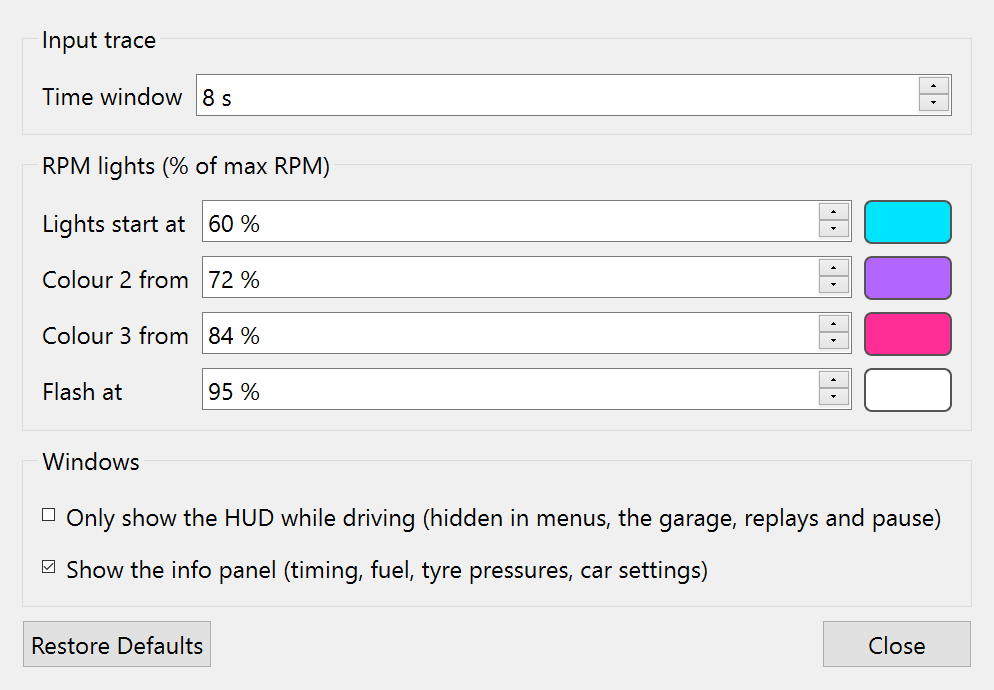
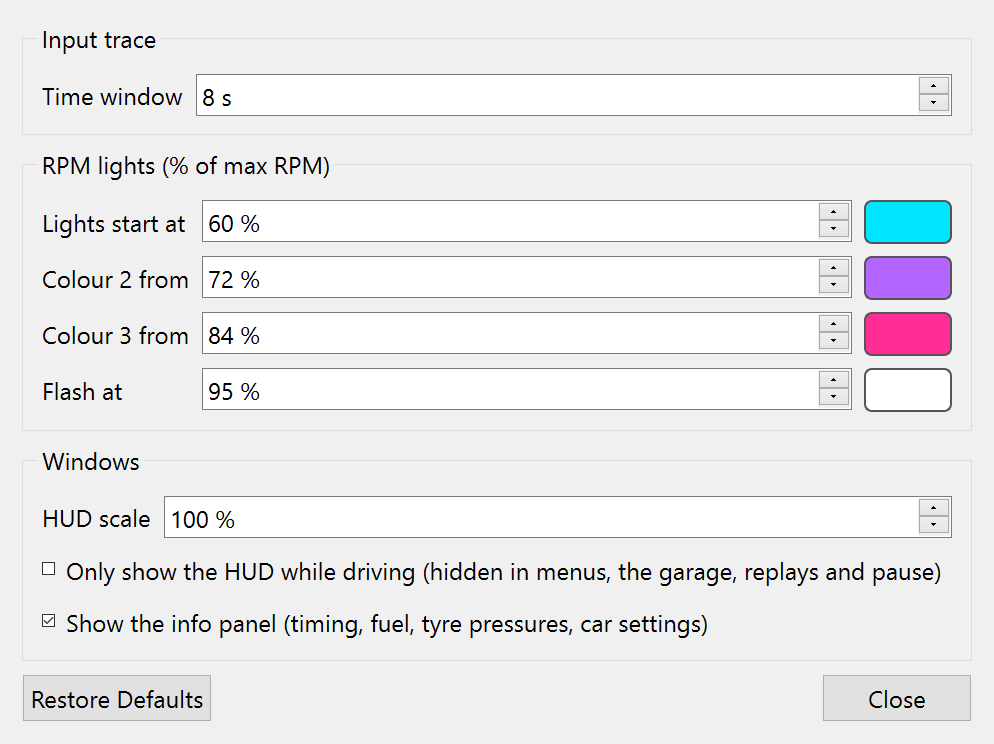
Add a HUD scale setting (50-250 %)
Settings > Windows > HUD scale resizes the HUD window and scales the painter, so the vector drawing stays sharp; layout constants stay in 100 % units. The pin/gear buttons follow on resize, and the scale is saved.

diff --git a/ace_overlay/config.py b/ace_overlay/config.py
@@ -25,6 +25,7 @@ class Config:
     flash_color: str = "#4d7cff"
     show_panel: bool = True  # the separate info panel (timing, fuel, pressures, car settings)
     hide_until_driving: bool = False  # HUD only appears once the car is out of the garage
+    hud_scale: int = 100  # % size of the HUD
 
     @classmethod
     def load(cls, settings):
@@ -98,7 +99,14 @@ class SettingsDialog(QDialog):
         self.hide_until_driving = QCheckBox("Only show the HUD while driving (hidden in menus, the garage, replays and pause)")
         self.show_panel = QCheckBox("Show the info panel (timing, fuel, tyre pressures, car settings)")
         panel_box = QGroupBox("Windows")
+        self.hud_scale = QSpinBox(minimum=50, maximum=250, singleStep=10, suffix=" %")
+        self.hud_scale.setToolTip("Size of the HUD. It's drawn as shapes and text, so it stays sharp at any size.")
+        scale_row = QWidget()
+        scale_layout = QFormLayout(scale_row)
+        scale_layout.setContentsMargins(0, 0, 0, 0)
+        scale_layout.addRow("HUD scale", self.hud_scale)
         windows_layout = QVBoxLayout(panel_box)
+        windows_layout.addWidget(scale_row)
         windows_layout.addWidget(self.hide_until_driving)
         windows_layout.addWidget(self.show_panel)
 
@@ -119,6 +127,7 @@ class SettingsDialog(QDialog):
             button.changed.connect(self.apply)
         self.show_panel.toggled.connect(self.apply)
         self.hide_until_driving.toggled.connect(self.apply)
+        self.hud_scale.valueChanged.connect(self.apply)
 
     @staticmethod
     def row(spin, color_button):
@@ -139,6 +148,7 @@ class SettingsDialog(QDialog):
             getattr(self, name).set_color(getattr(c, name))
         self.show_panel.setChecked(c.show_panel)
         self.hide_until_driving.setChecked(c.hide_until_driving)
+        self.hud_scale.setValue(c.hud_scale)
         self.rpm_flash.setMinimum(c.rpm_start + 1)
         self._loading = False
 
@@ -155,6 +165,7 @@ class SettingsDialog(QDialog):
             setattr(c, name, getattr(self, name).color)
         c.show_panel = self.show_panel.isChecked()
         c.hide_until_driving = self.hide_until_driving.isChecked()
+        c.hud_scale = self.hud_scale.value()
         c.save(self.overlay.settings)
         self.overlay.config_changed.emit()
 

diff --git a/ace_overlay/overlay.py b/ace_overlay/overlay.py
@@ -238,6 +238,10 @@ class OverlayWindow(QWidget):
         for button in self.side_buttons:
             button.follow()
 
+    def resizeEvent(self, _event):  # e.g. the HUD scale changed: keep the buttons beside the window
+        for button in self.side_buttons:
+            button.follow()
+
     def mousePressEvent(self, event):
         if not self.locked and event.button() == Qt.LeftButton:
             self.windowHandle().startSystemMove()
@@ -263,6 +267,8 @@ class InputsOverlay(OverlayWindow):
         super().__init__(settings, "pos", QPoint(60, 60), W, H)
         self.source = source
         self.config = Config.load(settings)
+        self.apply_scale()
+        self.config_changed.connect(self.apply_scale)
         self.config_changed.connect(self.update)
         self.settings_dialog = None
         self.frame = self.graphics = None
@@ -315,6 +321,16 @@ class InputsOverlay(OverlayWindow):
         self.blink = (self.blink + 1) % 16
         self.update()
 
+    def scale(self):
+        return self.config.hud_scale / 100
+
+    def apply_scale(self):
+        """Size the window for the HUD scale. Drawing stays in unscaled layout units (see paintEvent)."""
+        s = self.scale()
+        size = (round(W * s), round(H * s))
+        if (self.width(), self.height()) != size:
+            self.setFixedSize(*size)
+
     def update_visibility(self, now):
         """With "only while driving" on, the HUD hides in menus, the garage, replays and pause. A short
         delay stops it flickering on transitions, and it always shows while unpinned for positioning."""
@@ -328,6 +344,7 @@ class InputsOverlay(OverlayWindow):
     def paintEvent(self, _event):
         p = QPainter(self)
         p.setRenderHint(QPainter.Antialiasing)
+        p.scale(self.scale(), self.scale())  # every layout constant below is in 100 % units
         self.paint_background(p, QRectF(0, 0, W, PH), R, PILL_BG, EDGE)
 
         f = self.frame

diff --git a/README.md b/README.md
@@ -155,6 +155,7 @@ The pin and gear fade out while you drive and light up when you hover over them.
 | Colour 2 from / Colour 3 from | 86 % / 92 % | Where each light switches colour. Every light takes the colour of the RPM % it represents. |
 | Flash at | 97 % | RPM where the whole strip flashes. |
 | Colours | green / yellow / red / blue | One swatch per zone plus the flash colour. |
+| HUD scale | 100 % | Size of the HUD, 50–250 %. It's drawn as shapes and text, so it stays sharp at any size. |
 | Only show the HUD while driving | off | Hides the HUD in menus, the garage or pit box, replays and pause, and shows it once you leave the pit box (the pit lane counts as driving). The info panel isn't affected. While the HUD is hidden, use the tray icon for *Move overlays* (which shows it for positioning) and *Settings…*. |
 | Show the info panel | on | Shows or hides the info panel (also in the tray menu). |
 

diff --git a/CLAUDE.md b/CLAUDE.md
@@ -87,6 +87,8 @@ python -m venv .venv && .venv\Scripts\pip install -e .[build,dev]
   It uses tabular digits and per-item template widths, so it never resizes as the lap time ticks. The layout is
   constant-driven at the top of `overlay.py` (`PH`, `R`, `POS_*`, `TRACE_*`, `RING_*`, `W`):
   extend that chain, not hard-coded coordinates. Fonts go through `font()` (Bahnschrift, then Segoe UI).
+  The constants are in 100 % units: `Config.hud_scale` resizes the window (`apply_scale`) and
+  `paintEvent` scales the painter, so never multiply layout values by the scale yourself.
 - Tyre temperatures, pedal bars and the boost bar were dropped from the HUD in the redesign at the
   user's request. Tyre data lives in the info panel.
 - **Settings:** add a field to the `Config` dataclass (`config.py`) and a widget in `SettingsDialog`.
